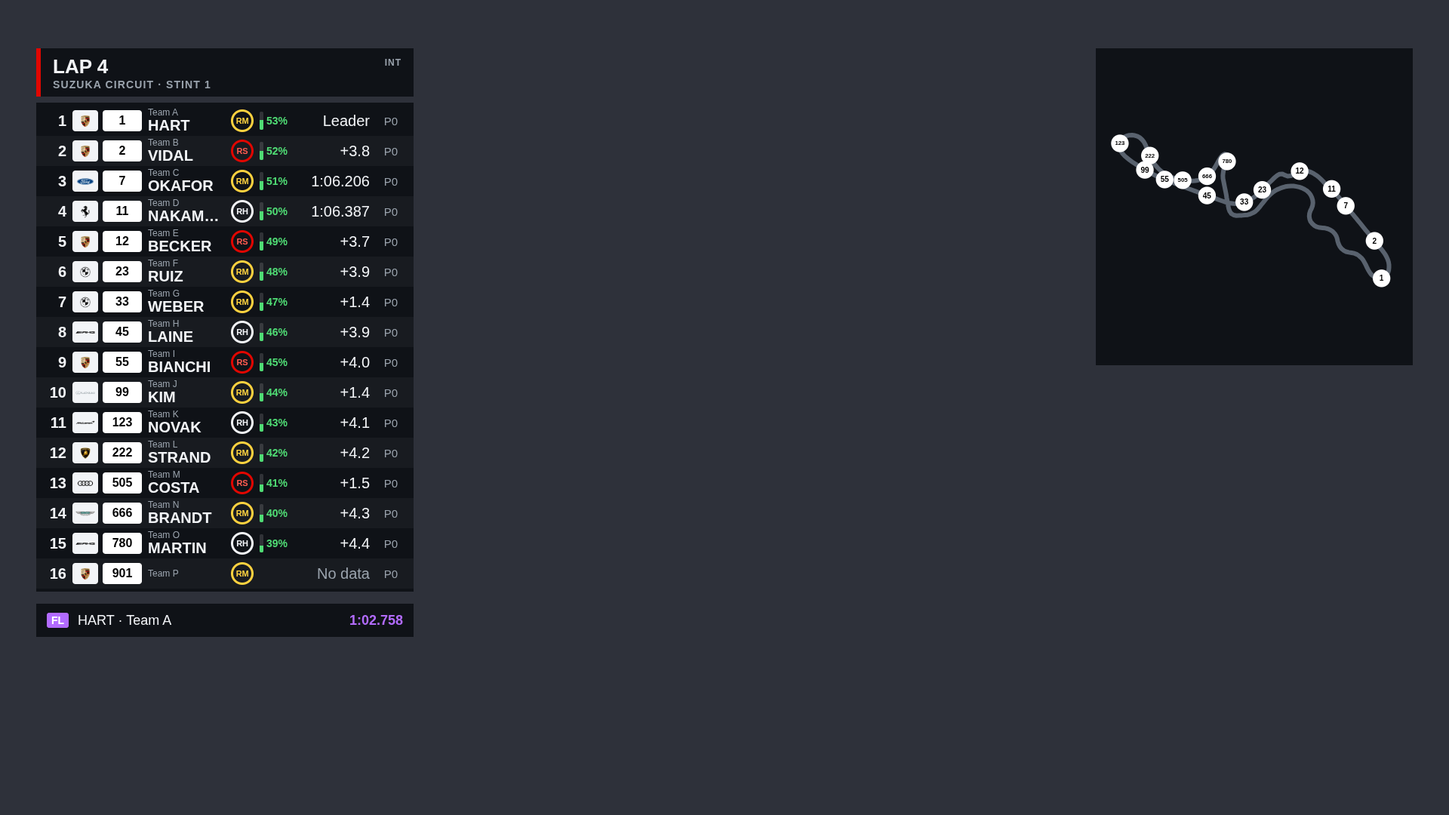
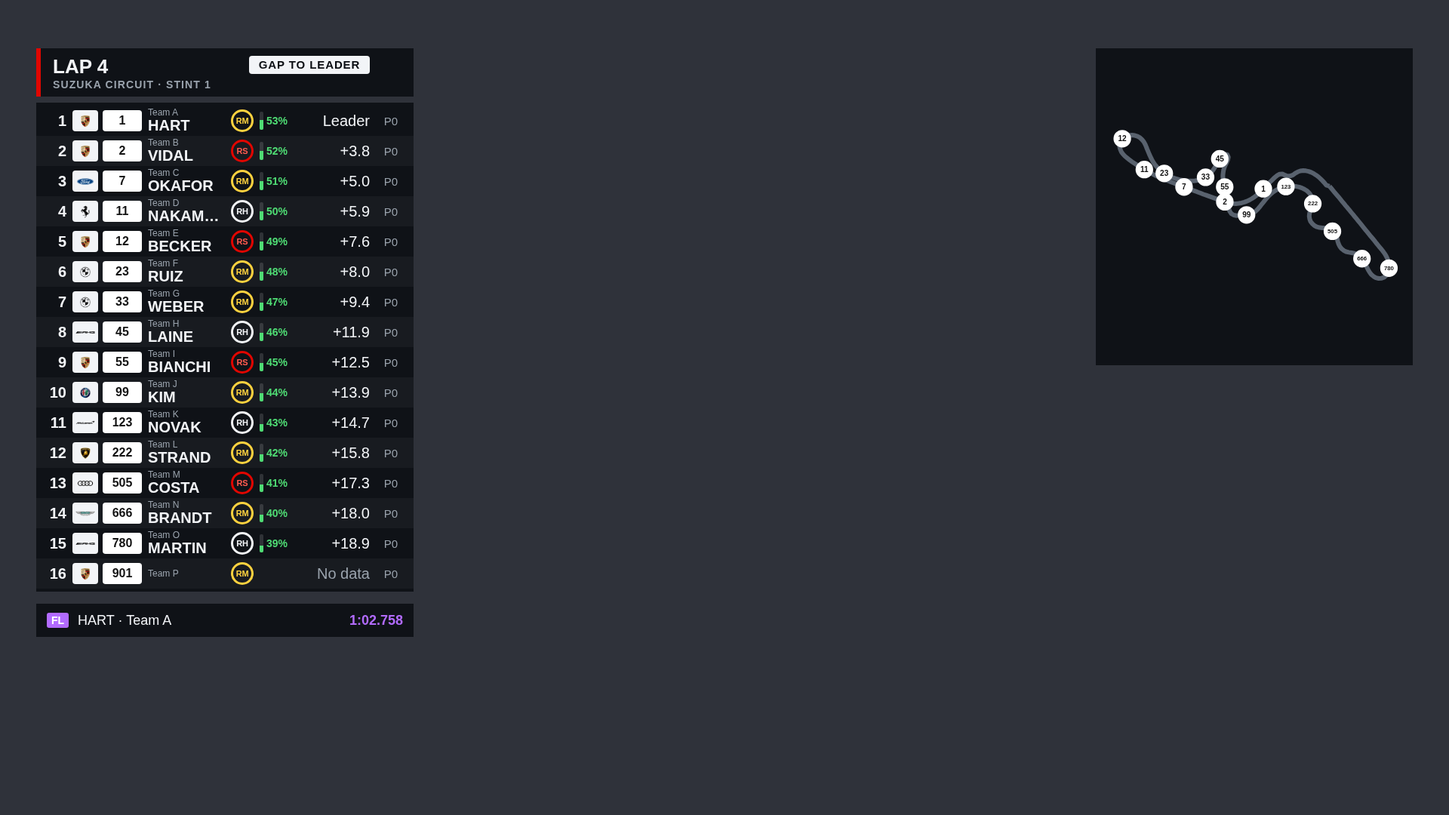
feat(timing): the tower header names the gap or interval column in a badge
Viewers could not read the 12 px dim "GAP" / "INT" in the header corner on
stream, so the switch between gap to the leader and interval went unnoticed.

- The header's lap line carries a white badge with dark 15 px bold text,
  right-aligned over the value column: "GAP TO LEADER" or "INTERVAL". It
  has a fixed width, so it does not move when the phase changes, and it
  hides in qualifying.
- The badge keeps the id #dd-phase and carries data-phase="gap" or
  "interval", so a league's overlay CSS can restyle it per phase.
- The session line keeps the full header width, red flag included; a lap
  or clock text too long for the space left of the badge ends in an
  ellipsis.
- The switching logic and its 15 s cycle are unchanged.
- Wiki, design note, relay notes and the driver-dashboard screenshot are
  updated.

diff --git a/src/obs/drivers.html b/src/obs/drivers.html
@@ -29,8 +29,12 @@
   }
   #dd-session { font-size: 14px; font-weight: 600; color: var(--dd-dim); letter-spacing: .08em;
                 text-transform: uppercase; white-space: nowrap; overflow: hidden; text-overflow: ellipsis; }
-  #dd-phase { position: absolute; right: 16px; top: 12px; font-size: 12px; font-weight: 700;
-              color: var(--dd-dim); letter-spacing: .08em; }
+  #dd-lap { margin-right: 214px; white-space: nowrap; overflow: hidden; text-overflow: ellipsis; }
+  /* On the lap line, right-aligned over the value column; a fixed width keeps it still when the phase changes. */
+  #dd-phase { position: absolute; right: 58px; top: 10px; width: 160px; box-sizing: border-box;
+              padding: 3px 0; border-radius: 4px; background: var(--dd-fg); color: #0a0d12; text-align: center;
+              font-size: 15px; font-weight: 800; letter-spacing: .06em; line-height: 18px; white-space: nowrap; }
+  #dd-phase:empty { display: none; }
   #drivers-header.flag { border-left-color: #ff2a2a; }
   #drivers-tower {
     position: absolute; left: 48px; top: 136px; width: 500px; box-sizing: border-box;
@@ -111,7 +115,7 @@
 </head>
 <body>
   <div id="drivers-header" data-edit="Lap and session" data-edit-kind="text">
-    <span id="dd-lap">LAP 7 / 20</span><span id="dd-session">Suzuka · Stint 2</span><span id="dd-phase">GAP</span>
+    <span id="dd-lap">LAP 7 / 20</span><span id="dd-session">Suzuka · Stint 2</span><span id="dd-phase" data-phase="gap">GAP TO LEADER</span>
   </div>
   <div id="drivers-tower" data-edit="Timing tower" data-edit-kind="text" data-edit-props="showBrands"><div id="dd-rows">
     <div class="dd-row"><span class="dd-pos">1</span><span class="dd-id"><span class="dd-brand"><img src="/drivers/brand/bmw" alt=""></span><span class="dd-num" style="background:#c00000">7</span></span><span class="dd-name"><span class="dd-team">Team Redline</span><span class="dd-driver">BERG</span></span><span class="dd-tyre RM">RM</span><span class="dd-fuel"><span class="dd-fuel-bar"><i style="height:56%"></i></span><span>56%</span></span><span class="dd-val">Leader</span><span class="dd-pit">P1</span></div>
@@ -162,9 +166,14 @@
     return /^(#[0-9a-fA-F]{3,8}|rgba?\([0-9., ]+\)|[a-zA-Z]+)$/.test(c || "") ? c : fallback;
   }
   let showFuel = true, showTyre = true, lastLapS = 5;
-  const PHASES = ["GAP", "INT"];
+  const PHASES = ["GAP TO LEADER", "INTERVAL"];
   function phase() { return Math.floor(Date.now() / CYCLE_MS) % PHASES.length; }
   function phaseLabel() { return PHASES[phase()]; }
+  function showPhase(label, key) {
+    const badge = document.getElementById("dd-phase");
+    badge.textContent = label;
+    badge.setAttribute("data-phase", key);
+  }
   const laps = {};   // entry -> {ms, until}: its last lap and when that lap stops showing
   function noteLaps(entries) {
     const now = Date.now();
@@ -362,7 +371,7 @@
       return r;
     }));
     placeFastest();
-    document.getElementById("dd-phase").textContent = phaseLabel();
+    showPhase(phaseLabel(), ["gap", "interval"][phase()]);
     // A paged tower shows its page's class; one page cycles the classes that have a lap.
     const timed = list.filter(function (c) { return c.fastest; });
     const cls = book.length > 1 ? page[0].header
@@ -382,7 +391,7 @@
   }
   function renderQualifying(d) {
     document.getElementById("dd-lap").textContent = "QUALIFYING";
-    document.getElementById("dd-phase").textContent = "";
+    showPhase("", "");
     rows.classList.remove("grouped");
     const label = document.getElementById("dd-fl-class");
     label.textContent = "";

diff --git a/tests/test_driver_tower.py b/tests/test_driver_tower.py
@@ -76,7 +76,7 @@ def t_the_value_column_cycles_gap_and_interval():
     assert [g[0] for g in got] == ["+1.4", "+0.5", "+1.4"], \
         f"two phases, gap to the leader and interval to the car ahead: {got}"
     assert [g[1] for g in got] == ["Leader"] * 3, f"the leader reads Leader in both phases: {got}"
-    assert [g[2] for g in got] == ["GAP", "INT", "GAP"], f"the header names the phase: {got}"
+    assert [g[2] for g in got] == ["GAP TO LEADER", "INTERVAL", "GAP TO LEADER"], f"the header names the phase: {got}"
 
 
 # Feeds payloads behind a fixed leader to renderRace at the given clock and reads each
@@ -440,6 +440,31 @@ def t_the_tower_shows_the_surname_and_leaves_the_cut_to_css():
     assert re.search(r"\.dd-driver \{[^}]*text-overflow: ellipsis", css), "the column cuts what does not fit"
 
 
+def t_the_header_badge_follows_the_value_column():
+    got = _tower(_RACE + f"""
+      const badge = document.getElementById("dd-phase");
+      const out = [0, 1].map(function (k) {{
+        race(k * CYCLE_MS + 1, [{json.dumps(CAR)}]);
+        return [badge.textContent, badge.attrs["data-phase"]];
+      }});
+      renderQualifying({{mode: "qualifying", qualifying: []}});
+      return out.concat([[badge.textContent, badge.attrs["data-phase"]]]);""")
+    if got is None:
+        return
+    assert got == [["GAP TO LEADER", "gap"], ["INTERVAL", "interval"], ["", ""]], \
+        f"the badge names the column's phase for the override CSS and is empty in qualifying: {got}"
+
+
+def t_the_header_badge_is_readable_on_stream():
+    with open(TOWER, encoding="utf-8") as fh:
+        html = fh.read()
+    rule = re.search(r"#dd-phase \{([^}]*)\}", html).group(1)
+    size = int(re.search(r"font-size: (\d+)px", rule).group(1))
+    assert size >= 14, f"the badge is at least as large as the 14 px session line: {rule}"
+    assert "background" in rule, f"the badge is a filled pill, not dim corner text: {rule}"
+    assert '<span id="dd-phase" data-phase="gap">GAP TO LEADER</span>' in html, "the builder sample shows the full badge"
+
+
 def t_the_interval_phase_falls_back_to_the_gap():
     got = _tower(f"""
       Date.now = () => CYCLE_MS + 1;
@@ -447,7 +472,7 @@ def t_the_interval_phase_falls_back_to_the_gap():
       return [phaseLabel(), column(e, 1)];""")
     if got is None:
         return
-    assert got == ["INT", "+3.2"], f"a running car without an interval shows its gap: {got}"
+    assert got == ["INTERVAL", "+3.2"], f"a running car without an interval shows its gap: {got}"
 
 
 def t_the_pages_show_names_through_the_rule():
@@ -735,8 +760,9 @@ def t_a_class_page_stays_for_gap_and_interval():
       }});""")
     if got is None:
         return
-    assert got == [["H", "GAP", "+1.0"], ["H", "INT", "+1.0"], ["G", "GAP", "+1.0"], ["G", "INT", "+1.0"],
-                   ["H", "GAP", "+1.0"]], f"each class page shows GAP, then INT, then the next class: {got}"
+    gap, it = "GAP TO LEADER", "INTERVAL"
+    assert got == [["H", gap, "+1.0"], ["H", it, "+1.0"], ["G", gap, "+1.0"], ["G", it, "+1.0"],
+                   ["H", gap, "+1.0"]], f"each class page shows the gap, then the interval, then the next class: {got}"
 
 
 def t_class_names_are_text():

diff --git a/src/relay/CLAUDE.md b/src/relay/CLAUDE.md
@@ -388,7 +388,7 @@ Tests: tests/test_intermission_live.py and tools/e2e-intermission.py.
 
 **Timing host (#1161).** A league with `TIMING_HOST_URL` and `TIMING_HOST_PUBLISH_KEY` in its `profile.env` gets an external fan-out: `timing_publish.Publisher` (a relay thread from `_start_timing_publisher`, idle without a host) holds one TLS WebSocket (`ws_client`, `obs_ws` framing) to `wss://<host>/t/<link id>/publish?v=1` and sends the tick body as a `state` frame every 2 s (`timing_host`: frame builders, `read_settings`). The Cloudflare Worker (`src/timing-host/worker.js`) fans it out per link id in a Durable Object and acks; 15 s without an ack reconnects, failures back off to 30 s and warn once. The publisher re-reads the host keys from `RACECAST_PROFILE_ENV_FILE` when `POST /drivers/timing-host/reload` (tailnet only, never under `/console`) nudges it, so a deploy or settings change needs no restart; a changed or cleared timing link sends `end` to the old room, over one bounded connection of its own when the publisher is disconnected. `event stop` and `event timing --new` nudge the publisher, and `event stop` waits up to `TIMING_END_WAIT_S` while `status()['room']` says it still owes the old room its `end` before it stops the relay. After a replacement by another relay (`REPLACED`) the publisher keeps the 30 s backoff until a connection held for `STABLE_S`, so two relays on one link stay a quiet duel. Both pages run side by side: the served path (`timing_link.served`, `runtime/<profile>/timing-served.json`, `hosted` by default with a host, reset by a fresh `event start`, kept by a renewal) decides which link the desks, `racecast event timing` and the Control Center Home row offer. While `hosted` is served and the publisher is connected, the Funnel data carries `moved_to` (the hosted link), except while the publisher's quota estimate (`requests_today` + messages / 20) is at or above `QUOTA_GUARD_REQUESTS` (90 % of 100,000): then `status()['quota_low']` is true (shown in the Home row and the desks), the publisher sends `moved` toward Funnel, and only a new UTC day lifts it, because the estimate adds the rooms the publisher left that day (`_requests_base`); switching to `funnel` (`event timing --serve funnel`, Home row switch) sends `moved` to the room. The page's transport decisions are the pure `TimingLogic` block in `timing.html` (deno tests in `tests/timing-host/page_test.js`): a hosted page falls back to Funnel (`from=host`) after 3 failed reconnects and 12 s since the drop, a deliberate move arrives as `from=moved`, and the Funnel page follows `moved_to` back after a dwell (10 s moved, 60 s fallback). `GET /drivers/timing-link` adds `served`, `hosted_url`, `funnel_url` and the publisher's `status()`. The Funnel URL (also each state's `fallback`) exists only while Funnel serves `/console`: `_funnel_watch` answers from a cache and asks the tailscale CLI in the background at most once a minute, never in a request. Its `magicdns()` also feeds the control server's Host check (`_browser_request_allowed`), so a MagicDNS name that appears after the relay started is accepted without a restart (the relay's watch also refreshes itself every 30 s, so the name is known within about a minute of Tailscale coming up, before anyone asks); `POST /console/drive/ingest` and `/console/probe/ingest` skip the Host check, since they authenticate by a custom header a cross-site page cannot set. Brand logos travel as `brand` frames (`timing_host.brand_frame`, base64 PNG) after the first state, one per step, each once per connection and again when its bytes change (`brands_fn`, the Funnel route's resolver); they count in `msgs_today`, and a failed logo send pauses logos for `BRAND_PAUSE_S` so a slow uplink keeps its states. The room keeps at most 64 as base64 under `brand:<key>` (PNG magic, 256 KiB, `[a-z0-9-]{1,64}`) and delivers them over the viewer sockets, never as requests (Cloudflare bills only incoming socket messages): each logo to a new viewer after the state, and a new or replaced one to every connected viewer; `end` deletes them with the room. The Worker has no logo route. The hosted page (`TimingLogic.brandMessage`) turns each into a blob URL (the room's CSP allows `blob:` images) and never requests a logo. The publisher only reads the delayed body; it never touches `driver_race` or the feeds (`t_internal_dashboard_routes_ignore_a_dead_host`).
 
-**Driver dashboard data (#1115).** `race_distance` times each lap of the active counting car between two counter steps and takes GT7's `last_ms` only within `LAP_TIME_TOLERANCE` of that (a lap with a start, red flag, change or move in it never counts); a lap under `Race.min_lap_s` (the line at `MAX_SPEED_MPS`) never counts, a sample not newer than the car's last is dropped, and the probe samples a repeated packet id once; the fastest race lap and each class's (`by_class`) persist with their pick id in `runtime/<profile>/driver-race-fastest.json` (cleared by a race reset and a fresh `event start`, ignored on another layout, voided or set by `POST /drivers/race/fastest`; an optional `class`, validated like the class-laps route, voids or sets only that class's lap and leaves the overall one, and the entry must be in that class; in class mode `GET /drivers/race` carries `class_fastest`). `by_class` is written only when a class holds a lap. `driver_race.Service.tick` (every `SNAPSHOT_EVERY_S`, a relay thread) builds the viewer payload from `_dashboard_context` (Configuration roster with `cupTeam` from the optional `Cup Team` column, the on-air stint label, the race timer's remaining seconds, the mode, in qualifying the hub's connections) as an allowlist and keeps a ring of snapshots; `dashboard()` serves the one `delay_s` old, with the current `visible`, `delay_s` and display switches, so Hide/Show never waits for the delay. Qualifying ranks the on-air segment by `best_ms` (`driver_race.qualifying`); the service keeps each entry's best from live senders per pick and segment in memory (`_quali_seen`), so a lap stays ranked after its sender goes quiet. `GET /drivers/dashboard` and `GET /drivers/line` (decimated `reference_trace`, cached per pick) are ANY-tier under `/console`. The OBS page `src/obs/drivers.html` (`/drivers`, builder page `drivers` with `/drivers/override.css`, in `OBS_PAGE_PATHS`) renders them and stays blank until the settings' `visible` (default False); the cockpit's Timing card polls the same payload. Both desks' `driver-desk.js` add the delay, fastest-lap and qualifying corrections (`set_quali`, kept in the actions file); only the panel mounts it with `dashboardToggle`, and the relay refuses `visible` from `race_control:` (a program change). The tyre compound (#1123) is crew data in the actions file (`set_compound`, last change wins with its author), shown on the overlay as a ring letter unless `show_compound` is off; each viewer row carries `brand` (the roster's `brandKey` when it matches `driver_race.BRAND_KEY_RE`, else "") and `brand_name`, also in `public_view`, and `GET /drivers/race` adds both through `driver_race.with_brands` for the desks; the tower, the desks and the cockpit load logos from `/drivers/brand/<key>` (ANY-tier under `/console`, the same roster-bound resolver as the public route); the overlay builder's `showBrands` prop on the Timing tower compiles to `--dd-brands` (logo and number share one auto grid track, `.dd-id`, so the row closes up); `show_fuel` drops the overlay's fuel column (`fuel_l` read as percent: GT7's tank is 100); the value column cycles gap to the leader and interval (a header label names the phase), and a row whose `last_lap_ms` changes shows the new lap for the league's `last_lap_s` (`profiles/<name>/driver-race.json` next to `restart`, `read_league` per `dashboard()` call so a change applies live, 1 to 30, default 5, in the payload's `show`) with the page seeding its per-entry memory silently so a reload replays nothing, and a finished row shows a chequered flag in place of ring and fuel with its final gap, which `standings()` keeps after the car goes quiet. Classes (`docs/superpowers/specs/2026-11-19-multiclass-design.md`): the roster's `Class`/`Class Color` columns give `carClass`/`classColor`; with at least two named classes (`_named_classes`, "" never counts) `Race.set_classes` adds `class`, `class_pos`, `class_gap_s`, `class_interval_s` and `class_lapped` to each standings row from the same history as the overall gaps (retired and no-sender rows get a position but no class gaps), the viewer payload adds `class_color` per row and a `classes` list (name, color, lap, laps, fastest; the "" group last), and `public_view` allowlists exactly those; with fewer classes every payload is unchanged. Each standings row also carries `class_gap_time_s` and `class_interval_time_s`, the time to the class leader and to the class car ahead like `gap_time_s`/`interval_time_s` (also for a car lapped in its class, estimates from the overall rows), for the desks, the recording and the snapshot page only: it is not in `_CLASS_ROW`, so neither the dashboard nor `public_view` carries them. The viewer reads the class lap counts only in class mode. The tower groups under class headers and pages one class per page for `CYCLE_MS * PHASES.length` when the groups exceed the tower's rows (`towerRows`/`capacity`, measured each render: a `#drivers-tower` height over `LEGACY_PX` 128, the builder's sample canvas, holds the whole `.dd-row` heights it fits, at least `MIN_ROWS` 5; otherwise the tower is `height: auto` and grows to `PAGE_BOTTOM` 1016 minus the fastest lap box, which `placeFastest` moves `FL_GAP` 16 px under the last row while it sits in the tower's column below it, 20 rows by default), the map rings each dot in its class colour (the EST ring wins), and the recording stores class, class position and class gaps per sample (the CSV class and class position only). Design survey: `src/docs/design/driver-dashboard-layout.md`.
+**Driver dashboard data (#1115).** `race_distance` times each lap of the active counting car between two counter steps and takes GT7's `last_ms` only within `LAP_TIME_TOLERANCE` of that (a lap with a start, red flag, change or move in it never counts); a lap under `Race.min_lap_s` (the line at `MAX_SPEED_MPS`) never counts, a sample not newer than the car's last is dropped, and the probe samples a repeated packet id once; the fastest race lap and each class's (`by_class`) persist with their pick id in `runtime/<profile>/driver-race-fastest.json` (cleared by a race reset and a fresh `event start`, ignored on another layout, voided or set by `POST /drivers/race/fastest`; an optional `class`, validated like the class-laps route, voids or sets only that class's lap and leaves the overall one, and the entry must be in that class; in class mode `GET /drivers/race` carries `class_fastest`). `by_class` is written only when a class holds a lap. `driver_race.Service.tick` (every `SNAPSHOT_EVERY_S`, a relay thread) builds the viewer payload from `_dashboard_context` (Configuration roster with `cupTeam` from the optional `Cup Team` column, the on-air stint label, the race timer's remaining seconds, the mode, in qualifying the hub's connections) as an allowlist and keeps a ring of snapshots; `dashboard()` serves the one `delay_s` old, with the current `visible`, `delay_s` and display switches, so Hide/Show never waits for the delay. Qualifying ranks the on-air segment by `best_ms` (`driver_race.qualifying`); the service keeps each entry's best from live senders per pick and segment in memory (`_quali_seen`), so a lap stays ranked after its sender goes quiet. `GET /drivers/dashboard` and `GET /drivers/line` (decimated `reference_trace`, cached per pick) are ANY-tier under `/console`. The OBS page `src/obs/drivers.html` (`/drivers`, builder page `drivers` with `/drivers/override.css`, in `OBS_PAGE_PATHS`) renders them and stays blank until the settings' `visible` (default False); the cockpit's Timing card polls the same payload. Both desks' `driver-desk.js` add the delay, fastest-lap and qualifying corrections (`set_quali`, kept in the actions file); only the panel mounts it with `dashboardToggle`, and the relay refuses `visible` from `race_control:` (a program change). The tyre compound (#1123) is crew data in the actions file (`set_compound`, last change wins with its author), shown on the overlay as a ring letter unless `show_compound` is off; each viewer row carries `brand` (the roster's `brandKey` when it matches `driver_race.BRAND_KEY_RE`, else "") and `brand_name`, also in `public_view`, and `GET /drivers/race` adds both through `driver_race.with_brands` for the desks; the tower, the desks and the cockpit load logos from `/drivers/brand/<key>` (ANY-tier under `/console`, the same roster-bound resolver as the public route); the overlay builder's `showBrands` prop on the Timing tower compiles to `--dd-brands` (logo and number share one auto grid track, `.dd-id`, so the row closes up); `show_fuel` drops the overlay's fuel column (`fuel_l` read as percent: GT7's tank is 100); the value column cycles gap to the leader and interval (a header badge `#dd-phase`, `data-phase` gap or interval, names the phase), and a row whose `last_lap_ms` changes shows the new lap for the league's `last_lap_s` (`profiles/<name>/driver-race.json` next to `restart`, `read_league` per `dashboard()` call so a change applies live, 1 to 30, default 5, in the payload's `show`) with the page seeding its per-entry memory silently so a reload replays nothing, and a finished row shows a chequered flag in place of ring and fuel with its final gap, which `standings()` keeps after the car goes quiet. Classes (`docs/superpowers/specs/2026-11-19-multiclass-design.md`): the roster's `Class`/`Class Color` columns give `carClass`/`classColor`; with at least two named classes (`_named_classes`, "" never counts) `Race.set_classes` adds `class`, `class_pos`, `class_gap_s`, `class_interval_s` and `class_lapped` to each standings row from the same history as the overall gaps (retired and no-sender rows get a position but no class gaps), the viewer payload adds `class_color` per row and a `classes` list (name, color, lap, laps, fastest; the "" group last), and `public_view` allowlists exactly those; with fewer classes every payload is unchanged. Each standings row also carries `class_gap_time_s` and `class_interval_time_s`, the time to the class leader and to the class car ahead like `gap_time_s`/`interval_time_s` (also for a car lapped in its class, estimates from the overall rows), for the desks, the recording and the snapshot page only: it is not in `_CLASS_ROW`, so neither the dashboard nor `public_view` carries them. The viewer reads the class lap counts only in class mode. The tower groups under class headers and pages one class per page for `CYCLE_MS * PHASES.length` when the groups exceed the tower's rows (`towerRows`/`capacity`, measured each render: a `#drivers-tower` height over `LEGACY_PX` 128, the builder's sample canvas, holds the whole `.dd-row` heights it fits, at least `MIN_ROWS` 5; otherwise the tower is `height: auto` and grows to `PAGE_BOTTOM` 1016 minus the fastest lap box, which `placeFastest` moves `FL_GAP` 16 px under the last row while it sits in the tower's column below it, 20 rows by default), the map rings each dot in its class colour (the EST ring wins), and the recording stores class, class position and class gaps per sample (the CSV class and class position only). Design survey: `src/docs/design/driver-dashboard-layout.md`.
 
 **Driver telemetry desks (#1114).** `src/console/driver-desk.js` (public static code at `/driver-desk.js` and `/console/driver-desk.js`, served before the gate like `driver-radio-ui.js`) renders the same controls in the Race Control desk (`base` `/race-control`) and the Director Panel (`base` ""). Over the Funnel the panel reaches `/console/drivers/*` (director-tier) and the desk `/console/race-control/drivers/*` (race_control), which `_console_gate` rewrites to the root `/drivers/*` handlers (an allowlist per method in `console_policy`, `_DRIVER_DESK_GET`/`_POST`: `/drivers/data` and the race reset stay on the tailnet); the gate sets `self._race_who` (`director:<subject>` or `race_control:<subject>`, reset at the top of every `do_GET`/`do_POST`) and the handlers audit with it, `tailnet` otherwise. Routes beyond #1112/#1113: `GET /drivers/readiness` (`driver_ingest.readiness`, with `focus` = the stint on air and the next), `GET /drivers/invite` (the id, and `base`, the Funnel address while Funnel serves `/console`; the desks build the link from it, else from their own origin, and prefer the timing link's `funnel_url` the same way), `POST /drivers/reassign {conn, entry}` (`Hub.reassign` keeps the sender's slot under the new entry; the race moves the car and parks an old entry with no car left, keeping its distance, corrections and the car's counting state, so moving the car back resumes the team). **First program change for Race Control over the Funnel:** `POST /console/race-control/red-flag {on}` raises (or lowers) the Standby Cover in `obs_ws.graphic_scene`, sets the HUD banner `RED_FLAG_BANNER` through `SetupControl.set_field` (needs the webhook and the Configuration vocabulary, exactly like the panel's RED FLAG) and holds the race; it reports `cover`/`banner` so the desk can say what failed (never the OBS note, which can name the WebSocket host), and logs a WARNING with the identity. `{on:false}` lowers the cover and clears the banner only when this route turned the cover on (`relay.rc_red_flag_raised`: set only when the cover was down before the raise, kept by a later raise over it, cleared by any director, Companion or auto-cover switch of it), never an auto-cover over a dead feed (#495) or the director's own; one change per person in `RED_FLAG_MIN_S`. The panel's own RED FLAG also posts `/drivers/race/red-flag` when it raises the cover. Last change wins; `last_action` shows its author in both desks. Tests: `tests/test_console.py`, `tests/test_driver_routes.py`, `tests/test_driver_ingest.py`.
 

diff --git a/src/docs/wiki/Driver-Telemetry.md b/src/docs/wiki/Driver-Telemetry.md
@@ -248,9 +248,11 @@ It never carries connection ids, corrections or who made them.
   its entry colour. Dots sit on the racing line; in a close pack a dot slides back
   along the line to stay readable, never past the car behind, and otherwise lies under
   the dot ahead. The value column switches every 15 seconds between the gap to the
-  leader and the interval to the car ahead, and a small label in the header (`GAP`,
-  `INT`) names the current one. When a car completes a lap, its row shows the new lap
-  time for 5 seconds, purple if it is the fastest lap of the race, then returns to the
+  leader and the interval to the car ahead, and a white badge on the header's lap line,
+  right above the value column, names the current one: `GAP TO LEADER` or `INTERVAL`. On class pages
+  the gap is to the class leader. The badge is `#dd-phase` with `data-phase="gap"` or
+  `"interval"`, so a league's overlay CSS can restyle each phase. When a car completes a
+  lap, its row shows the new lap time for 5 seconds, purple if it is the fastest lap of the race, then returns to the
   gap; a lap that does not count shows nothing. The seconds are a league setting
   (Control Center Home, **Lap time**, or `racecast event race --last-lap-seconds N`,
   1 to 30) that the relay applies at once. A reloaded overlay does not replay the laps

diff --git a/src/docs/design/driver-dashboard-layout.md b/src/docs/design/driver-dashboard-layout.md
@@ -29,7 +29,9 @@ viewer payload of `driver_race.Service.dashboard`.
 column it needs exists in our data except the compound, which is optional by design.
 
 - Header: `LAP n / N` from the leader (or the remaining time in a timed race) and the
-  session line (track, stint label in endurance).
+  session line (track, stint label in endurance). A badge on the lap line, right-aligned
+  over the value column, names the column's phase, `GAP TO LEADER` or `INTERVAL`, large enough to read on
+  a 1080p stream; it has a fixed width so it does not jump when the phase changes.
 - Rows: position, number on the entry's tile colour (`BG Color`), driver surname with
   the entry or cup team small above, interval (the leader shows the gap column's
   title), pit stops `P`, and the optional compound letter.
